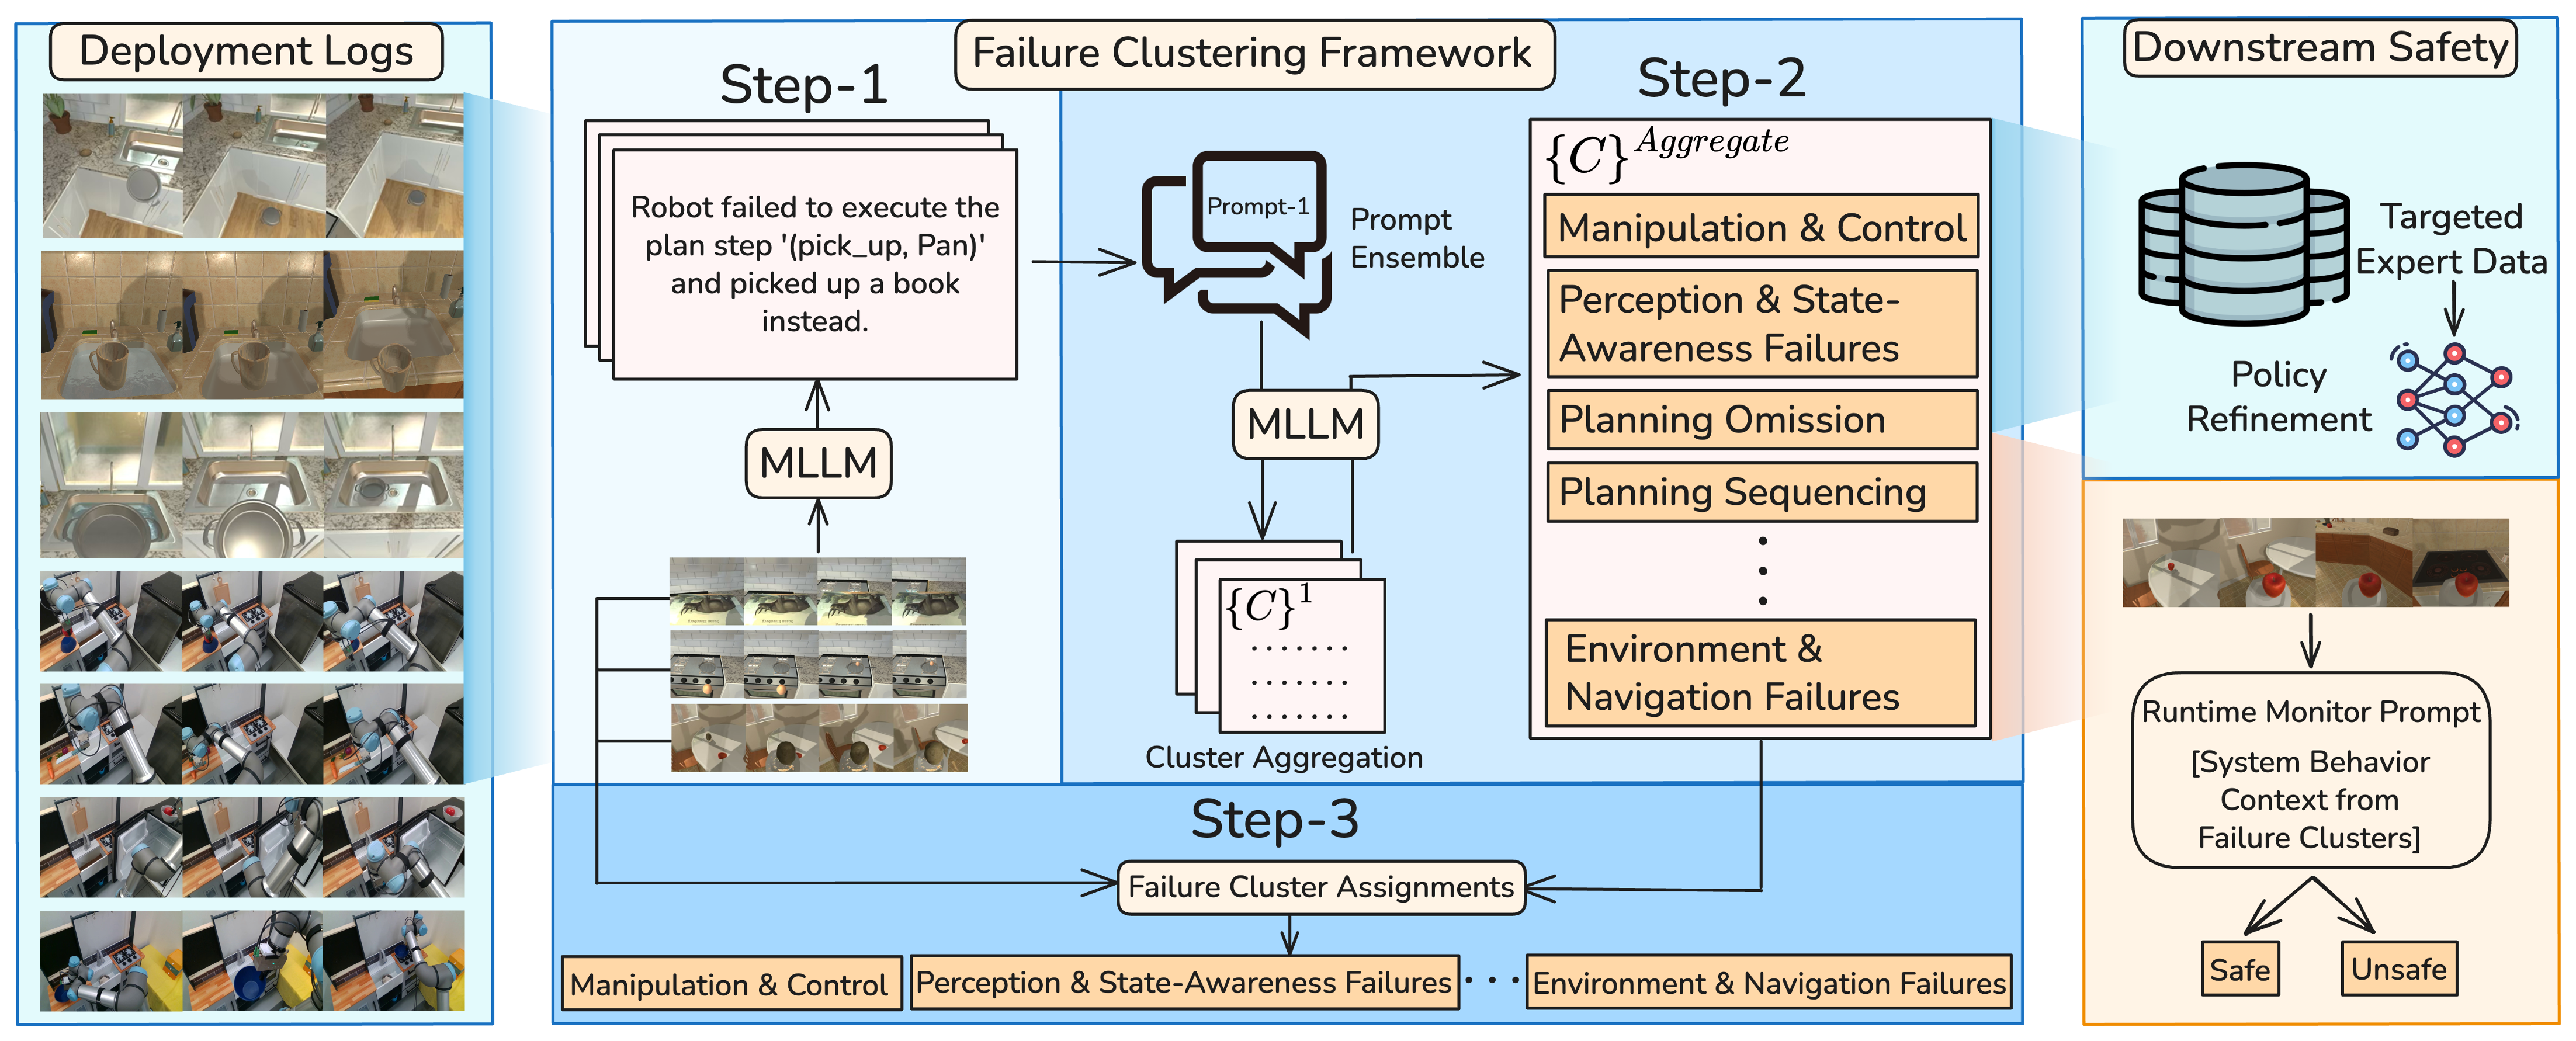
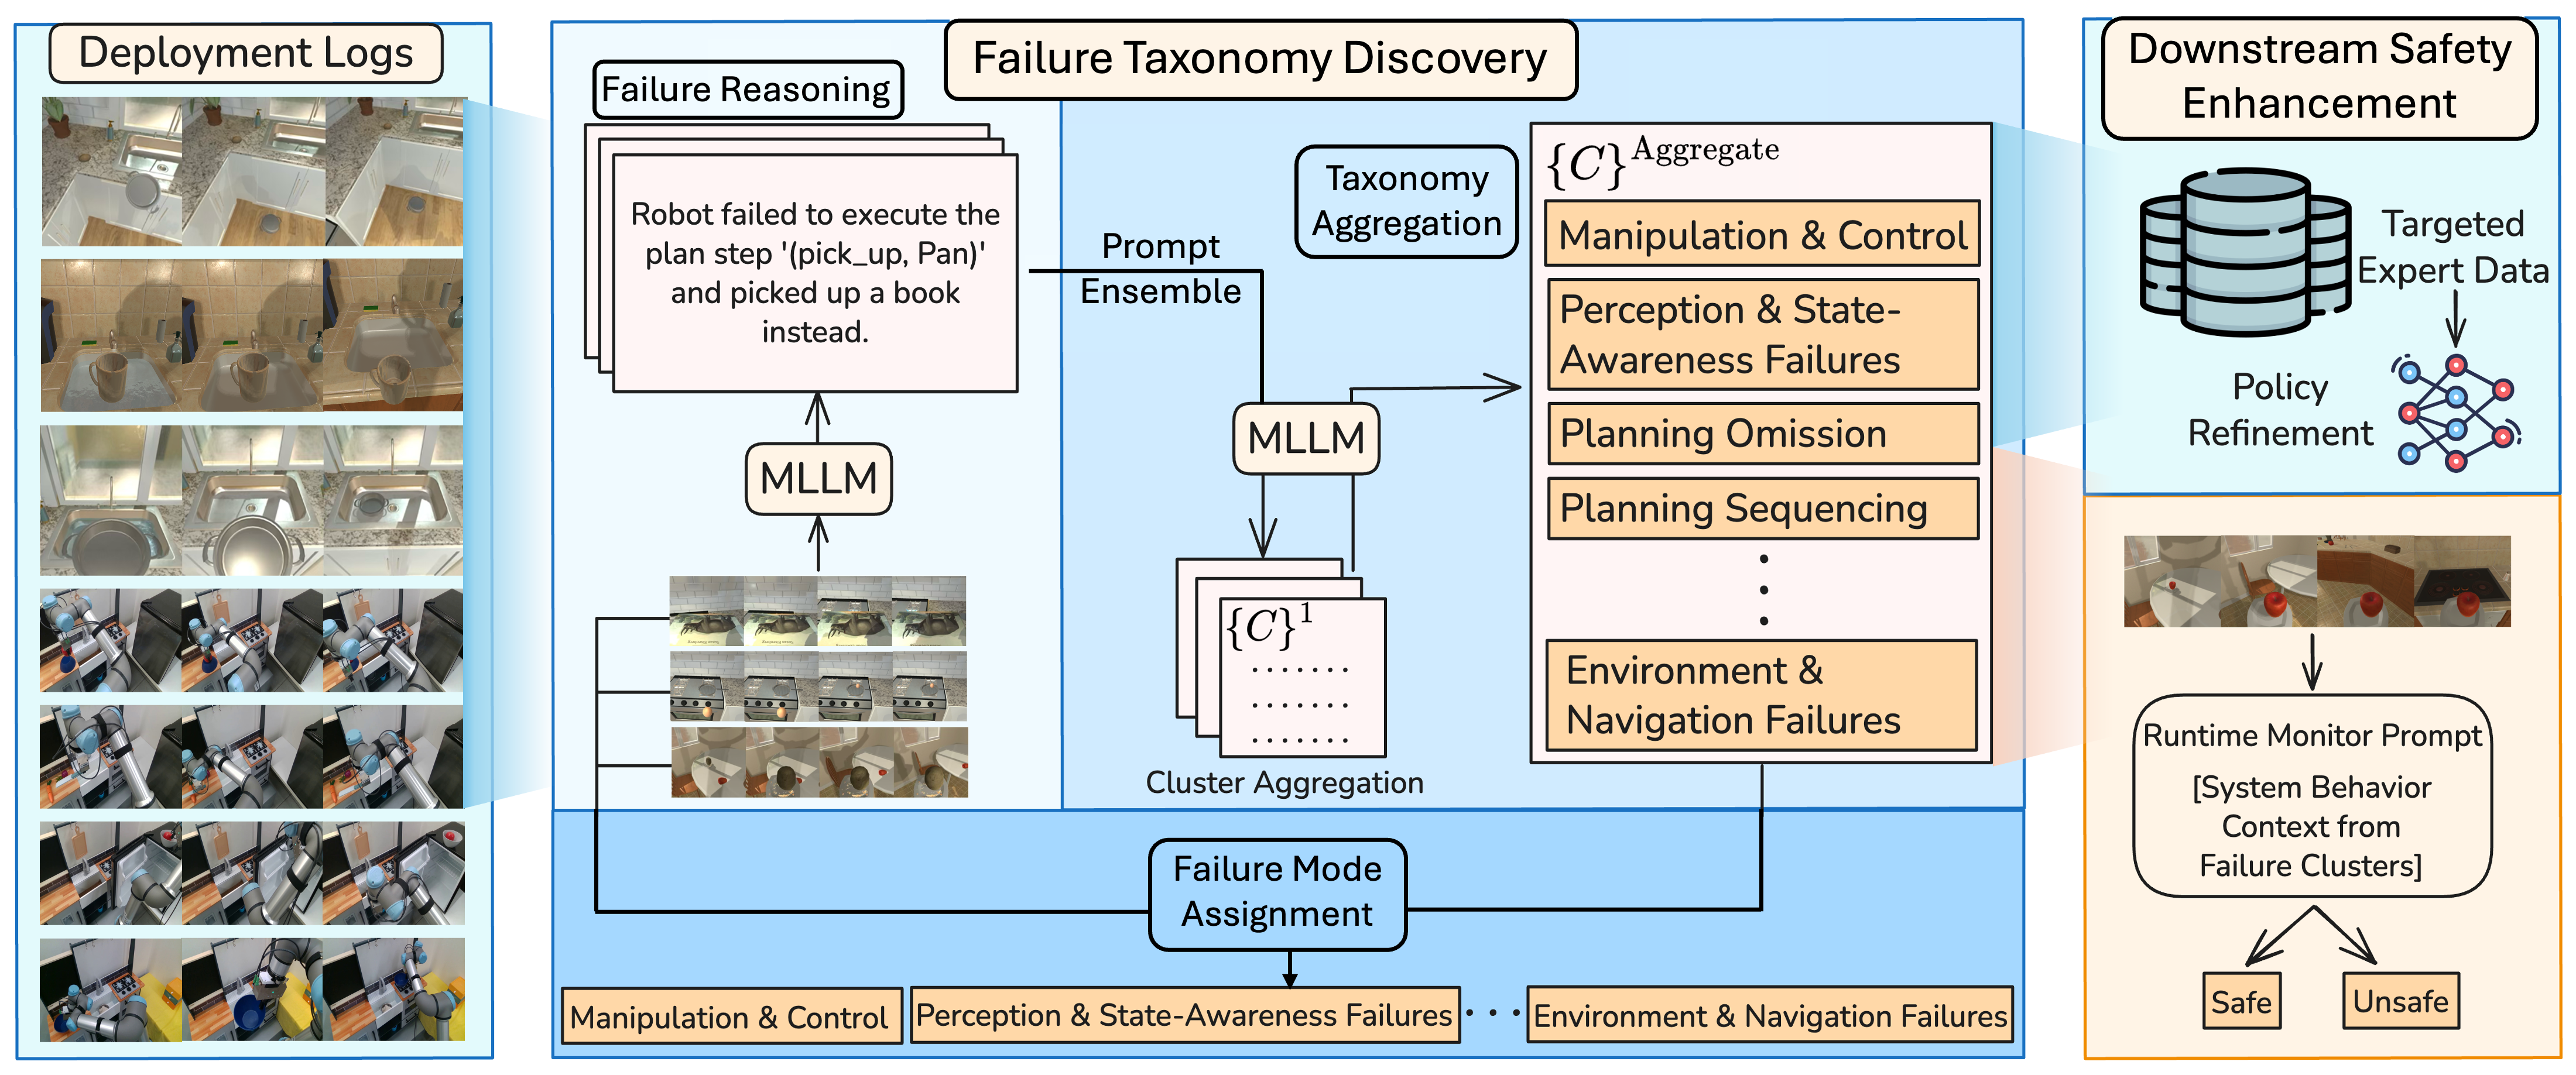
update: failure clustering paper

diff --git a/index.html b/index.html
@@ -185,7 +185,7 @@
 
 										<p align="justify">[<strong>June 2025</strong>] New <a href="https://arxiv.org/abs/2506.23346">paper</a> on Safe and Performant Deployment of Autonomous Systems via Model Predictive Control and Hamilton-Jacobi Reachability Analysis is out on arXiv.</p>
 
-										<p align="justify">[<strong>June 2025</strong>] New <a href="https://arxiv.org/abs/2506.06570">paper</a> From Perception Logs to Failure Modes: Language-Driven Semantic Clustering of Failures for Robot Safety is out on arXiv.</p>
+										<p align="justify">[<strong>June 2025</strong>] New <a href="https://arxiv.org/abs/2506.06570">paper</a> Unsupervised Discovery of Failure Taxonomies from Deployment Logs is out on arXiv.</p>
 
 										<p align="justify">[<strong>June 2025</strong>] Congratulations Javier, Luke, and Umut, for your <a href=https://arxiv.org/abs/2502.01924>paper</a> acceptance to IEEE Robotics and Automation Letters.</p>
 

diff --git a/publications.html b/publications.html
@@ -92,7 +92,7 @@
 
                                             <div>
                                                 <p style="margin: 0;">
-                                                    <strong>From Perception Logs to Failure Modes: Language-Driven Semantic Clustering of Failures for Robot Safety</strong><br>
+                                                    <strong>Unsupervised Discovery of Failure Taxonomies from Deployment Logs</strong><br>
                                                     Aryaman Gupta*, Yusuf Umut Ciftci*, Somil Bansal</sup>. <span style="font-size: 0.9em;">* equal contribution</span><br>
                                                     <em>arXiv</em>, 2025
                                                     <a href="https://arxiv.org/abs/2506.06570">[PDF]</a>